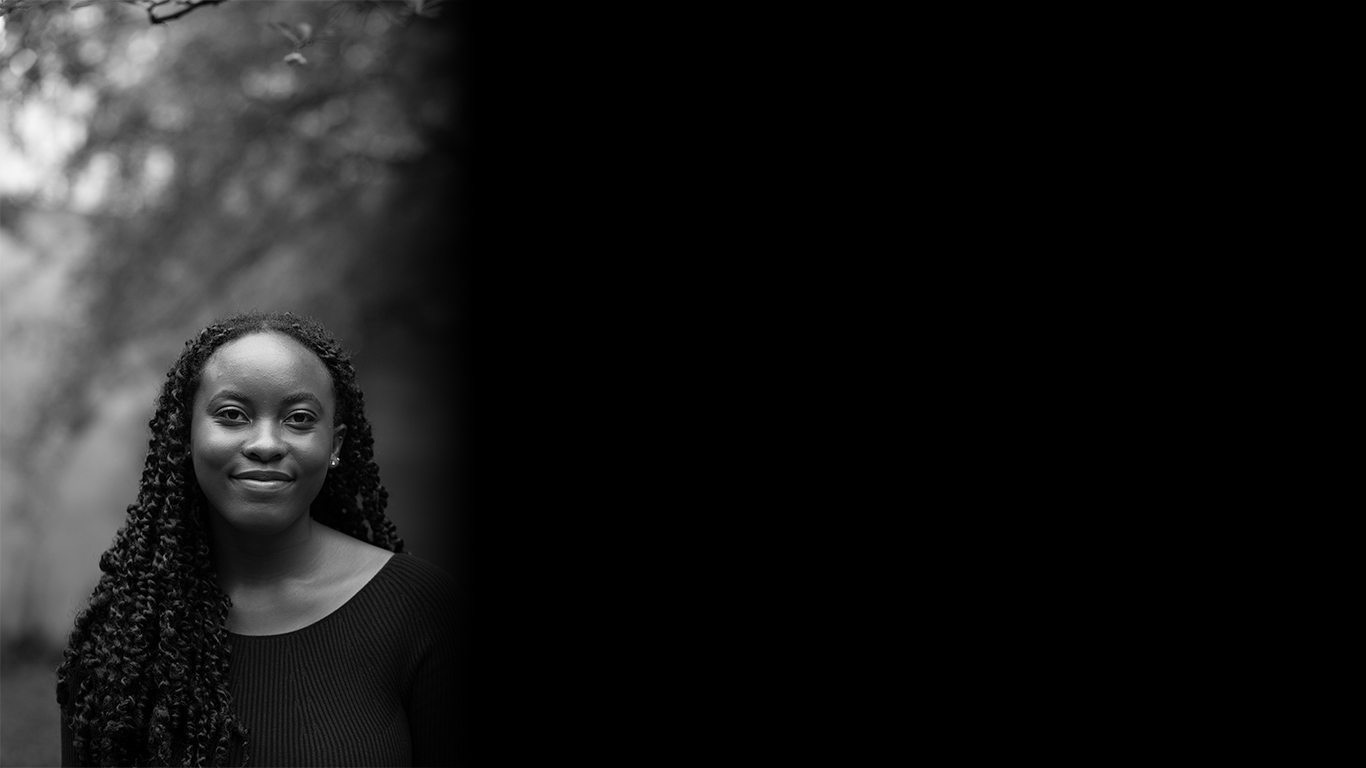
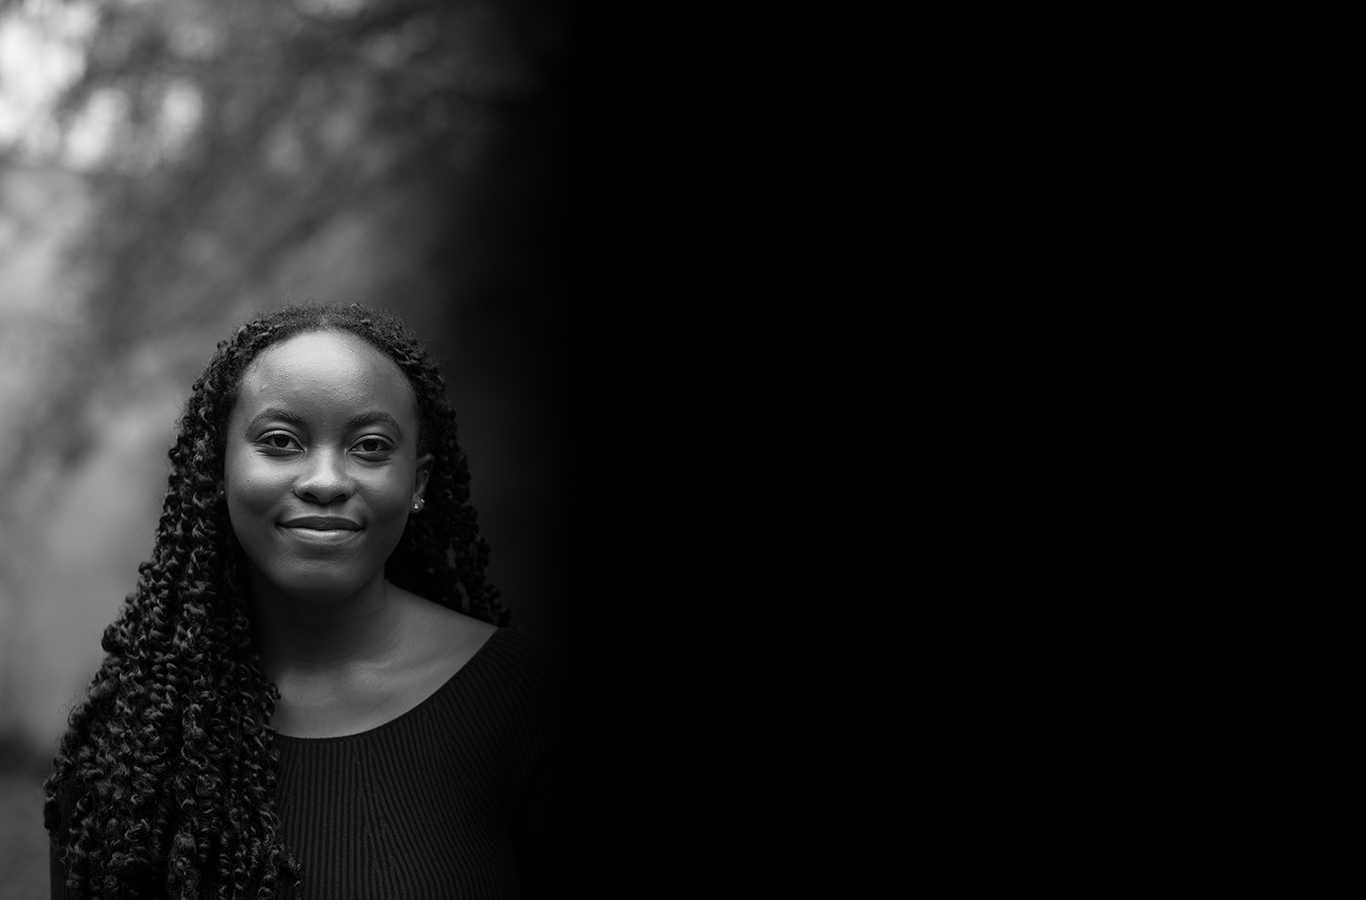
changes

diff --git a/index.html b/index.html
@@ -4,6 +4,7 @@
     <meta charset="UTF-8">
     <meta name="viewport" content="width=device-width, initial-scale=1.0">
     <meta http-equiv="X-UA-Compatible" content="ie=edge">
+    <link type="text/css" rel="stylesheet" href="./css/normalize.css">
     <link type="text/css" rel="stylesheet" href="./css/bootstrap.css">
     <link type="text/css" rel="stylesheet" href="./css/main.css">
     <link href="https://fonts.googleapis.com/css?family=Bangers|Roboto&display=swap" rel="stylesheet">
@@ -12,47 +13,50 @@
     <script src="https://stackpath.bootstrapcdn.com/bootstrap/4.3.1/js/bootstrap.min.js" integrity="sha384-JjSmVgyd0p3pXB1rRibZUAYoIIy6OrQ6VrjIEaFf/nJGzIxFDsf4x0xIM+B07jRM" crossorigin="anonymous"></script>
     <title>Alecia Richards</title>
 </head>
-<body>
+<body class="alecia-background">
 <!--Header-->
-<nav class="navbar navbar-expand-lg navbar navbar-dark bg-dark">
-    <a class="navbar-brand alecia-font" href="#">Alecia Richards</a>
+<nav class="navbar navbar-expand-lg navbar navbar-dark bg-dark fixed-top">
     <button class="navbar-toggler" type="button" data-toggle="collapse" data-target="#navbarSupportedContent" aria-controls="navbarSupportedContent" aria-expanded="false" aria-label="Toggle navigation">
       <span class="navbar-toggler-icon"></span>
     </button>
   
     <div class="collapse navbar-collapse" id="navbarSupportedContent">
       <ul class="navbar-nav mr-auto">
+          <li class="nav-item active">
+              <a class="nav-link support-font" href="./index.html">Home<span class="sr-only">(current)</span></a>
+            </li>
         <li class="nav-item active">
-          <a class="nav-link support-font" href="#">About<span class="sr-only">(current)</span></a>
+          <a class="nav-link support-font" href="./about.html">About<span class="sr-only">(current)</span></a>
         </li>
         <li class="nav-item active">
-            <a class="nav-link support-font" href="#">Resume<span class="sr-only">(current)</span></a>
+            <a class="nav-link support-font" href="./resume.html">Resume<span class="sr-only">(current)</span></a>
           </li>
           <li class="nav-item active">
-            <a class="nav-link support-font" href="#">Contact<span class="sr-only">(current)</span></a>
+            <a class="nav-link support-font" href="./contact.html">Contact<span class="sr-only">(current)</span></a>
           </li>
         <li class="nav-item dropdown">
           <a class="nav-link dropdown-toggle support-font" href="#" id="navbarDropdown" role="button" data-toggle="dropdown" aria-haspopup="true" aria-expanded="false">
-            Clips
+            My work
           </a>
           <div class="dropdown-menu" aria-labelledby="navbarDropdown">
-            <a class="dropdown-item support-font" href="#">Clip 1</a>
-            <a class="dropdown-item support-font" href="#">Clip 2</a>
+            <a class="dropdown-item support-font" href="#">Clips</a>
+            <a class="dropdown-item support-font" href="#">Video</a>
         </li>
-        <li class="nav-item dropdown">
-            <a class="nav-link dropdown-toggle support-font" href="#" id="navbarDropdown" role="button" data-toggle="dropdown" aria-haspopup="true" aria-expanded="false">
-              Video
-            </a>
-            <div class="dropdown-menu" aria-labelledby="navbarDropdown">
-              <a class="dropdown-item support-font" href="#">Video 1</a>
-              <a class="dropdown-item support-font" href="#">Video 2</a>
-          </li>
       </ul>
     </div>
-  </nav>
-  <div>
-      <img class="alecia-background" src="./images/alecia-background.jpg">
-  </div>
+</nav>
+<div>
+    <div class="container">
+        <div class="row">
+            <div class="col-12 statement statement-font">
+                <div class="alecia-font">
+                    Alecia Richards
+                </div>
+                Lorem ipsum dolor sit amet, consectetur adipiscing elit, sed do eiusmod tempor incididunt ut labore et dolore magna aliqua.
+            </div>
+        </div>
+    </div>
+</div>
     <!--Nav-->
         <!--Contact-->
         <!--Articles-->

diff --git a/css/main.css b/css/main.css
@@ -1,3 +1,9 @@
+
+.about {
+    margin-top: 8rem;
+    text-align: center;
+}
+
 .alecia-background {
     background-image: url("./images/alecia-background-mobile.jpg");
     background-repeat: no-repeat;
@@ -12,14 +18,79 @@
     font-size: 2rem;
 }
 
+.contact-info {
+    font-family: 'Roboto', sans-serif;
+    font-size: 1rem;
+    color: white;
+    padding: 1rem;
+}
+
+.icon-sizes {
+    height: 2rem;
+    width: 2.5rem;
+}
+
+.links {
+    text-decoration: none;
+}
+
+.list { 
+    list-style: none;
+    display: flex; 
+    flex-direction: column;
+}
+
+.list-pad {
+    padding: 0.5rem;
+}
+
+.resume-margin {
+    margin-top: 8rem;
+    text-align: center;
+    margin-bottom: 3rem;
+}
+
+.resume {
+    width: 12.75rem;
+    height: 16.5rem;
+}
+
+.secondary-background {
+    background-color: black;
+}
+
 .support-font {
     font-family: 'Roboto', sans-serif;
     font-size: 1rem;
 }
 
+.statement-font {
+    font-family: 'Roboto', sans-serif;
+    font-size: 1rem;
+    color: white;
+}
+
+.statement-font-pages {
+    font-family: 'Roboto', sans-serif;
+    font-size: 1rem;
+    color: white;
+    justify-content: center;
+}
+
+
+
+.statement {
+    margin-top: 30rem;
+    text-align: center;
+}
+
+
 
 @media (min-width: 1025px) {
 
+.about {
+    margin-top: 20rem;
+}
 
 .alecia-background {
     background-image: url("./images/alecia-background.jpg");
@@ -28,6 +99,26 @@
     -moz-background-size: cover;
     -o-background-size: cover;
     background-size: cover;
+}
+
+.alecia-font {
+    font-family: 'Bangers', cursive;
+    font-size: 4rem;
+}
+
+.list { 
+    list-style: none;
+}
+
+.resume {
+    width: 38.25rem;
+    height: 49.5rem;
+}
+
+.statement {
+    margin-top: 30rem;
+    margin-left: 20rem;
+    justify-content: center;
 }
 }
 
